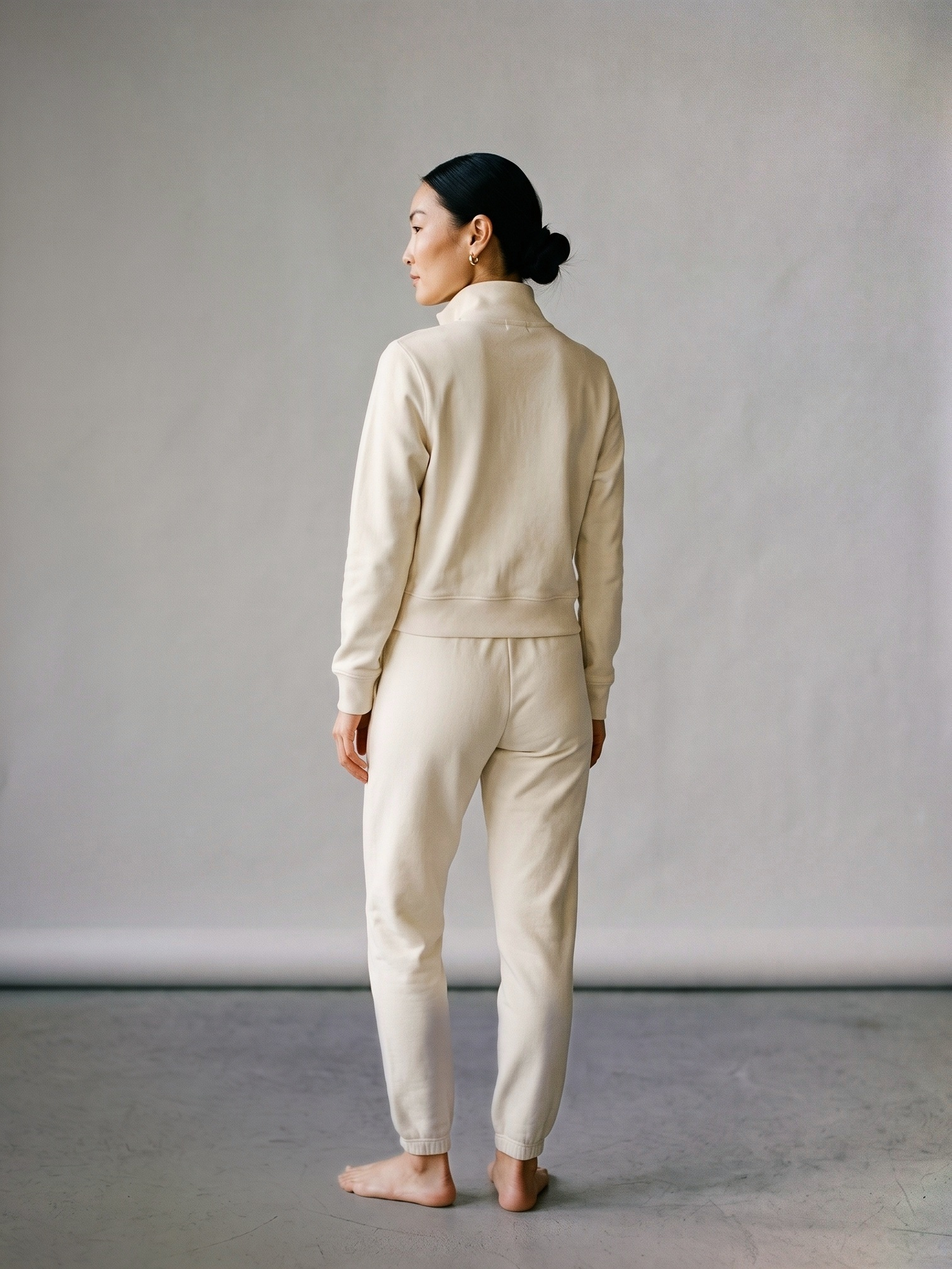
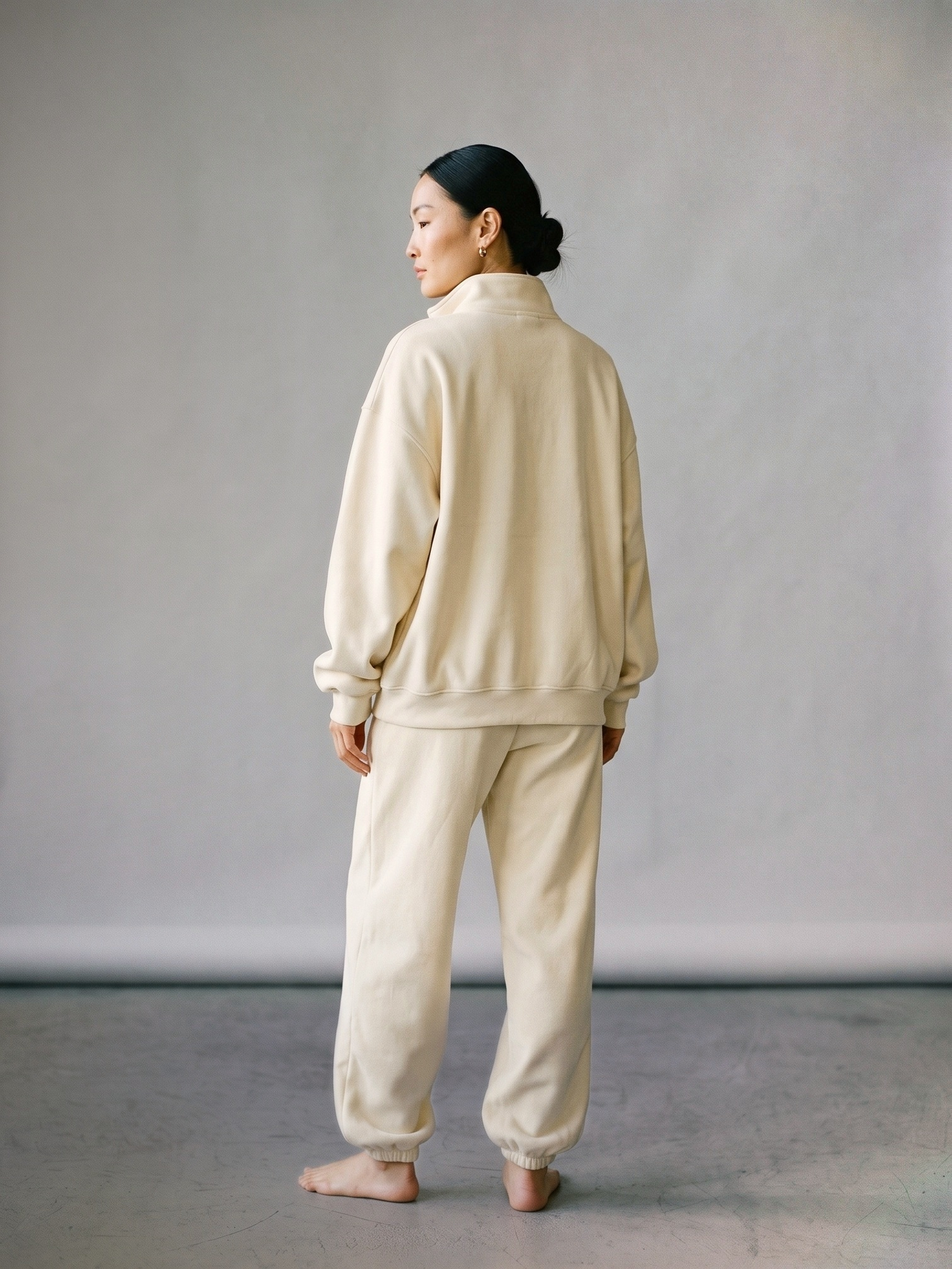
Ship re-sourced Off-Duty Set: cream + charcoal (was navy) imagery, pockets/oversized fit now accurate to real CJ garment, size chart switched to real body measurements XS-3XL, drop soldOut, bump v=53

diff --git a/assets/products.js b/assets/products.js
@@ -27,23 +27,22 @@ window.COVERLINE_PRODUCTS = [
   },
   {
     id: "loungeset",
-    soldOut: true, // 14 Sep 2026: pulled from sale pending re-sourcing — see coverline-product-accuracy-audit-2026-09-14.md
     name: "The Off-Duty Set",
     tagline: "Zip jacket and jogger, sold together.",
-    desc: "A boxy zip jacket and matching jogger. The jogger is cut a few centimetres shorter than a standard one, so it sits on the shoe rather than under it.",
-    longDesc: "A zip-up jacket and jogger you can wear together or split up. The jacket is boxy and zips to the collar, so it works over a tee or on its own. The jogger has an elasticated waist and a slightly shorter leg than standard (100 to 103cm outside leg depending on size), so it sits on the shoe instead of pooling on it.",
-    fit: "Boxy through the jacket, elasticated waist on the jogger. Outside leg is 100–103cm depending on size — a touch shorter than a standard jogger, which suits a shorter frame; if you're tall for your size it will show ankle. Numbers in the chart below.",
+    desc: "An oversized, boxy zip jacket and matching relaxed jogger with a drawstring waist and elasticated ankle cuffs.",
+    longDesc: "A zip-up jacket and jogger you can wear together or split up. The jacket is deliberately oversized and boxy with dropped shoulders and a stand collar, so it works loose over a tee or on its own. The jogger is relaxed through the leg with a drawstring waist and elasticated cuffs at the ankle.",
+    fit: "Oversized and boxy through the jacket with dropped shoulders — it's meant to be loose, not fitted. The jogger has a drawstring waist and elasticated ankle cuffs. Sizing follows body measurements (bust/waist/hip), not garment length — check the chart below rather than your usual letter size.",
     priceLabel: "£30",
     price: 30,
-    sizes: ["S","M","L","XL"],
-    proof: "Zips to the collar. Jogger 100 to 103cm outside leg.",
-    modelNote: "Shown in size S on our house model (5\'6\"). Product images are AI-generated; the size chart is the supplier\'s real garment measurements.",
+    sizes: ["XS","S","M","L","XL","2XL","3XL"],
+    proof: "Oversized boxy jacket, relaxed drawstring jogger.",
+    modelNote: "Shown in size S on our house model (5\'3\"). Product images are AI-generated; the size chart is the supplier\'s real body measurements.",
     care: "Soft brushed stretch knit. Machine wash cold with similar colours, zip the jacket before washing, hang or lay flat to dry. Skip the tumble dryer.",
     colors: [
-      { key: "cream", label: "Cream", hex: "#e6e0d4", image: "/assets/product-images/loungeset-cream.jpg?v=39", images: ["/assets/product-images/loungeset-cream.jpg?v=39", "/assets/product-images/loungeset-cream-proof.jpg?v=39", "/assets/product-images/loungeset-cream-back.jpg?v=39", "/assets/product-images/loungeset-cream-detail.jpg?v=39"] },
-      { key: "navy", label: "Navy", hex: "#22283a", image: "/assets/product-images/loungeset-navy.jpg?v=39", images: ["/assets/product-images/loungeset-navy.jpg?v=39", "/assets/product-images/loungeset-navy-proof.jpg?v=39", "/assets/product-images/loungeset-navy-back.jpg?v=39", "/assets/product-images/loungeset-navy-detail.jpg?v=39"] }
+      { key: "cream", label: "Cream", hex: "#e6e0d4", image: "/assets/product-images/loungeset-cream.jpg?v=53", images: ["/assets/product-images/loungeset-cream.jpg?v=53", "/assets/product-images/loungeset-cream-proof.jpg?v=53", "/assets/product-images/loungeset-cream-back.jpg?v=53", "/assets/product-images/loungeset-cream-detail.jpg?v=53"] },
+      { key: "charcoal", label: "Charcoal", hex: "#5c5860", image: "/assets/product-images/loungeset-charcoal.jpg?v=53", images: ["/assets/product-images/loungeset-charcoal.jpg?v=53", "/assets/product-images/loungeset-charcoal-proof.jpg?v=53", "/assets/product-images/loungeset-charcoal-back.jpg?v=53", "/assets/product-images/loungeset-charcoal-detail.jpg?v=53"] }
     ],
-    image: "/assets/product-images/loungeset-cream.jpg?v=39",
+    image: "/assets/product-images/loungeset-cream.jpg?v=53",
     swatch: function(){ return '<rect width="300" height="400" fill="var(--paper-raised)"/><path d="M0,300 C 90,340 220,250 300,300 L300,400 L0,400 Z" fill="var(--accent)" opacity=".4"/><path d="M20,90 C 120,40 200,140 290,80" fill="none" stroke="var(--accent-2)" stroke-width="1"/>'; }
   },
   {

diff --git a/assets/sizecharts.js b/assets/sizecharts.js
@@ -42,14 +42,17 @@ window.COVERLINE_SIZE_CHARTS = {
   },
   loungeset: {
     unit: "cm",
-    columns: ["Size", "Jacket chest", "Jacket length", "Sleeve", "Trouser length", "Hip", "Waist (relaxed)"],
+    columns: ["Size", "Bust", "Waist", "Hip"],
     rows: [
-      ["S",  "106", "71", "52", "100", "113", "64"],
-      ["M",  "110", "72", "53", "101", "117", "68"],
-      ["L",  "114", "73", "54", "102", "121", "72"],
-      ["XL", "118", "74", "55", "103", "125", "76"]
+      ["XS",  "84",  "64", "94"],
+      ["S",   "88",  "68", "98"],
+      ["M",   "92",  "72", "102"],
+      ["L",   "96",  "76", "106"],
+      ["XL",  "100", "80", "110"],
+      ["2XL", "104", "84", "114"],
+      ["3XL", "108", "88", "118"]
     ],
-    note: "The jacket is boxy; the jogger has an elasticated waist. Trouser length is the full outside leg. Tolerance ±1–3cm."
+    note: "Body measurements from the supplier — no garment lengths given, since the jacket is deliberately oversized and boxy. Tolerance ±1–3cm."
   },
   coord: {
     unit: "cm",

diff --git a/functions/_lib/catalog.js b/functions/_lib/catalog.js
@@ -15,7 +15,7 @@
 // product/variant query endpoint once the API key exists.
 export const CATALOG = {
   tee:       { name: "The Long-Enough Tee",     price: 15, sizes: ["S","M","L","XL","XXL"], colors: { apricot: "Apricot", black: "Black" }, cj: {} },
-  loungeset: { name: "The Off-Duty Set",        price: 30, sizes: ["S","M","L","XL"],       colors: { cream: "Cream", navy: "Navy" },       cj: {} },
+  loungeset: { name: "The Off-Duty Set",        price: 30, sizes: ["XS","S","M","L","XL","2XL","3XL"], colors: { cream: "Cream", charcoal: "Charcoal" }, cj: {} },
   coord:     { name: "The Wide-Leg Set",        price: 30, sizes: ["S","M","L","XL","XXL"], colors: { black: "Black", oat: "Oat" },         cj: {} },
   legging:   { name: "The Squat-Proof Legging", price: 18, sizes: ["S","M","L"],            colors: { black: "Black", nude: "Sand" },       cj: {} },
   short:     { name: "The Stay-Put Short",      price: 14, sizes: ["S","M","L","XL"],       colors: { maroon: "Wine", pink: "Blush" },      cj: {} }

diff --git a/product.html b/product.html
@@ -75,7 +75,7 @@
   </div>
 </footer>
 
-<script src="/assets/products.js?v=52"></script>
+<script src="/assets/products.js?v=53"></script>
 <script src="/assets/sizecharts.js?v=2"></script>
 <script src="/assets/reviews.js?v=1"></script>
 <script src="/assets/config.js?v=4"></script>

diff --git a/index.html b/index.html
@@ -102,7 +102,7 @@
   </div>
 </footer>
 
-<script src="/assets/products.js?v=52"></script>
+<script src="/assets/products.js?v=53"></script>
 <script src="/assets/config.js?v=4"></script>
 <script src="/assets/cart.js?v=10"></script>
 <script>

diff --git a/review.html b/review.html
@@ -74,7 +74,7 @@
   </div>
 </footer>
 
-<script src="/assets/products.js?v=52"></script>
+<script src="/assets/products.js?v=53"></script>
 <script src="/assets/config.js?v=4"></script>
 <script src="/assets/cart.js?v=10"></script>
 <script>

diff --git a/404.html b/404.html
@@ -46,7 +46,7 @@
   </div>
 </footer>
 
-<script src="/assets/products.js?v=52"></script>
+<script src="/assets/products.js?v=53"></script>
 <script src="/assets/config.js?v=4"></script>
 <script src="/assets/cart.js?v=10"></script>
 </body>

diff --git a/privacy.html b/privacy.html
@@ -85,7 +85,7 @@
   </div>
 </footer>
 
-<script src="/assets/products.js?v=52"></script>
+<script src="/assets/products.js?v=53"></script>
 <script src="/assets/config.js?v=4"></script>
 <script src="/assets/cart.js?v=10"></script>
 </body>

diff --git a/shipping-returns.html b/shipping-returns.html
@@ -78,7 +78,7 @@
   </div>
 </footer>
 
-<script src="/assets/products.js?v=52"></script>
+<script src="/assets/products.js?v=53"></script>
 <script src="/assets/config.js?v=4"></script>
 <script src="/assets/cart.js?v=10"></script>
 </body>

diff --git a/terms.html b/terms.html
@@ -92,7 +92,7 @@
   </div>
 </footer>
 
-<script src="/assets/products.js?v=52"></script>
+<script src="/assets/products.js?v=53"></script>
 <script src="/assets/config.js?v=4"></script>
 <script src="/assets/cart.js?v=10"></script>
 </body>
